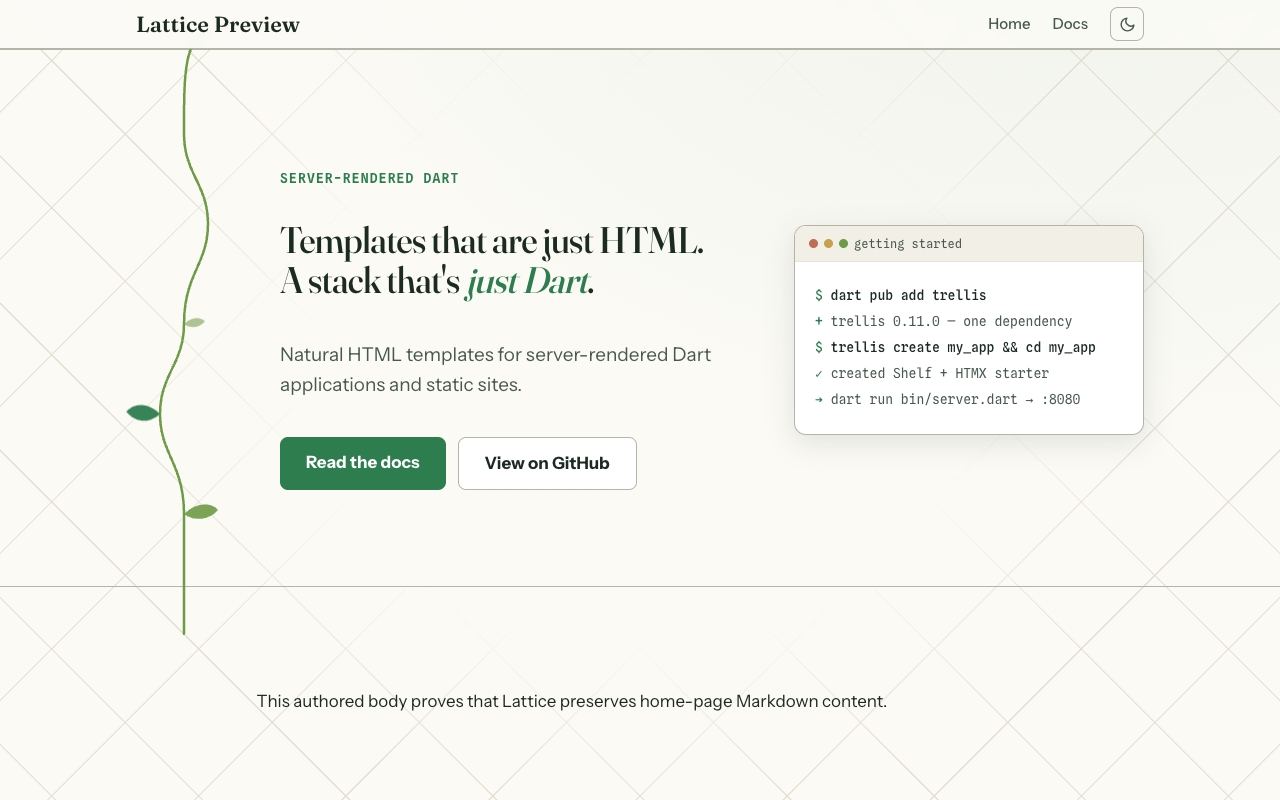
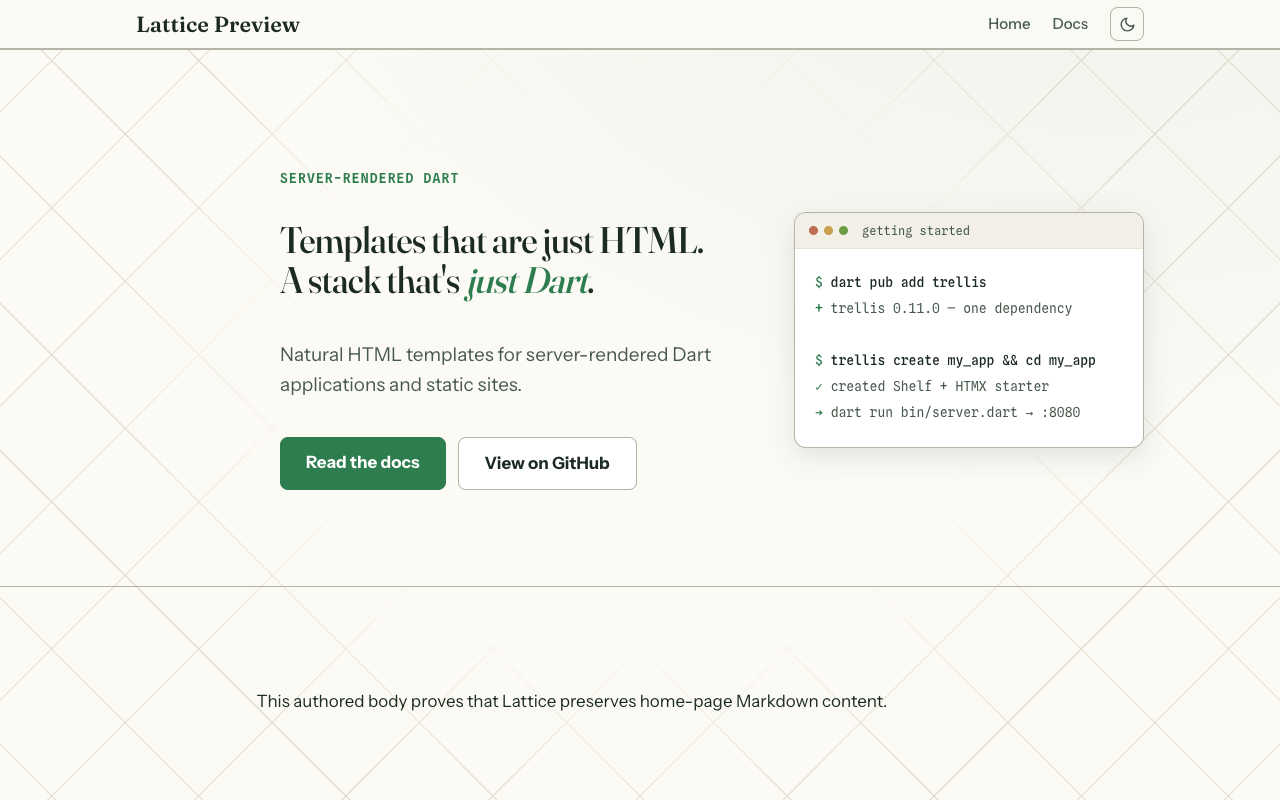
Polish Lattice spacing

diff --git a/test/lattice_theme_contract_test.dart b/test/lattice_theme_contract_test.dart
@@ -162,6 +162,35 @@ $trellis-border-radius: 0;
     expect(styles, contains('@media (max-width: 900px)'));
   });
 
+  test('owner spacing polish keeps terminal groups legible and centers the closing card', () {
+    final css = TrellisCss.compileSass(p.join(themeDir, 'sass', 'main.scss'), silenceImportDeprecation: true);
+    expect(css, matches(RegExp(r'\.window-bar span\s*\{[^}]*margin-left:\s*8px', dotAll: true)));
+    expect(
+      css,
+      matches(
+        RegExp(
+          r'\.terminal-line\[data-kind=output\]\s*\+\s*'
+          r'\.terminal-line\[data-kind=command\]\s*\{[^}]*margin-top:\s*26px',
+          dotAll: true,
+        ),
+      ),
+    );
+    expect(css, matches(RegExp(r'#main-content > section\s*\{[^}]*padding-block:\s*84px', dotAll: true)));
+    expect(
+      css,
+      matches(
+        RegExp(
+          r'@media \(max-width: 700px\)\s*\{.*?'
+          r'#main-content > section\s*\{[^}]*padding-block:\s*64px',
+          dotAll: true,
+        ),
+      ),
+    );
+    final closingRule = RegExp(r'\.closing-section\s*\{([^}]*)\}').firstMatch(css);
+    expect(closingRule, isNotNull);
+    expect(closingRule!.group(1), isNot(contains('padding')));
+  });
+
   test('S04/TI06 headline waits for the interval and stays static with reduced motion', () async {
     final result = await _runNodeHarness('lattice', p.join(themeDir, 'static', 'js', 'lattice.js'));
     if (result == null) return;

diff --git a/themes/lattice/sass/main.scss b/themes/lattice/sass/main.scss
@@ -414,6 +414,9 @@ h1.fit-3 {
 .window-bar i:nth-child(3) {
   background: var(--tendril);
 }
+.window-bar span {
+  margin-left: 8px;
+}
 pre {
   overflow: auto;
   margin: 0;
@@ -438,6 +441,9 @@ code {
 }
 .terminal-line[data-kind="output"] {
   color: var(--ink-soft);
+}
+.terminal-line[data-kind="output"] + .terminal-line[data-kind="command"] {
+  margin-top: 26px;
 }
 .terminal-prompt {
   color: var(--leaf);
@@ -744,7 +750,6 @@ code {
   text-align: center;
 }
 .closing-section {
-  padding-top: 0 !important;
   border: 0;
 }
 .closing {

diff --git a/dev/state/STATE.md b/dev/state/STATE.md
@@ -41,8 +41,8 @@ owner review and the separate 0.11.0 version bump, tag, and publication remain p
 ## Test Health
 
 On `feat/0.11`: all eight package test suites pass (one existing Linux-only skip in `trellis`), the repo-root suite
-passes **77/77**, and workspace analyze and format gates pass across all 12 packages. Root and `/trellis/` docs builds
-each produce 27 pages and 37 static files with 1,143 internal references and no broken links. Dart Sass 3.0
+passes **78/78**, and workspace analyze and format gates pass across all 12 packages. Root and `/trellis/` docs builds
+each produce 27 pages and 39 static files with 1,279 internal references and no broken links. Dart Sass 3.0
 forward-compat tech debt remains logged as TD-006 (`@import` in theme SASS + the bridge).
 
 ## Blockers
